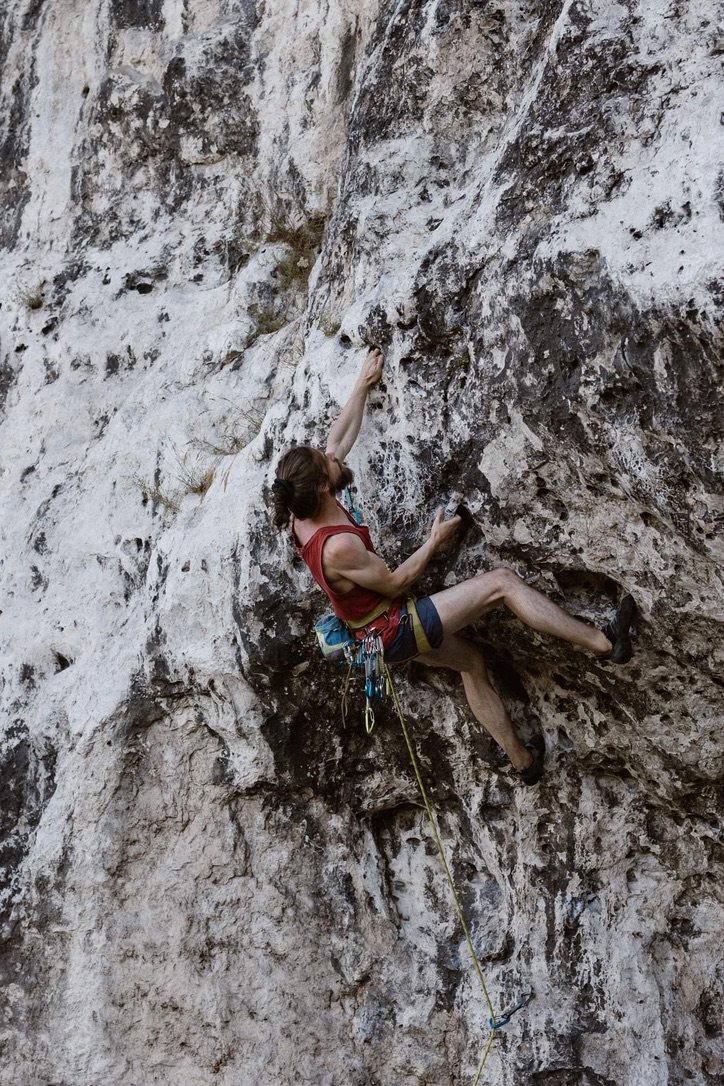
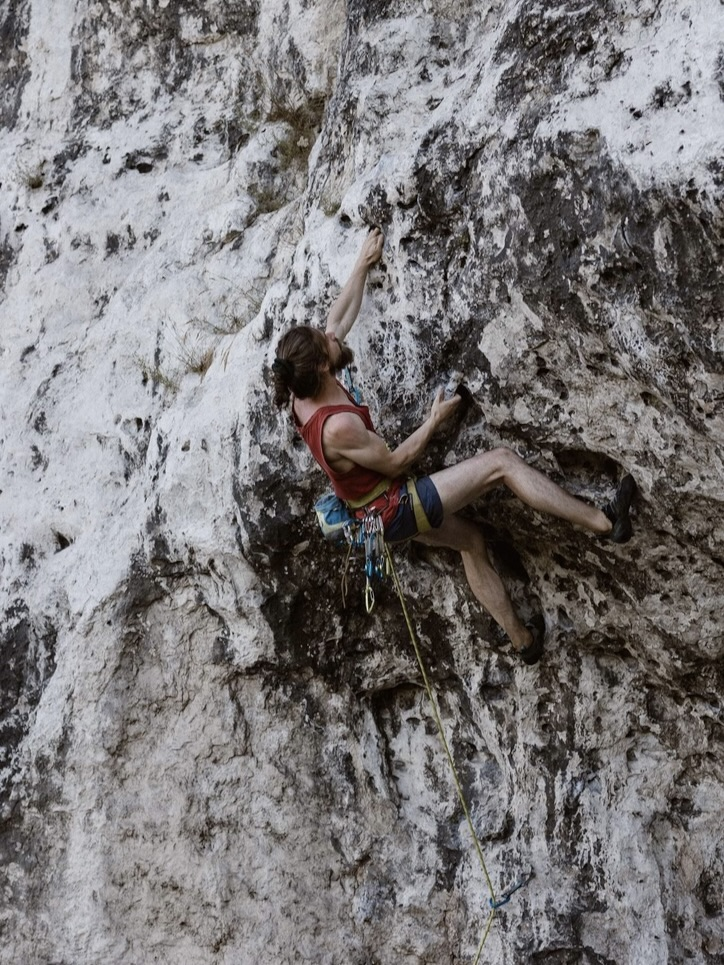
Adjusted form of picture, so that they are even; Changed my job description in first section of About

diff --git a/app/templates/index.html b/app/templates/index.html
@@ -7,11 +7,14 @@
 
       <p>
       I'm a customer supporter in fintech company. Currently working as Senior Engineering Support Advisor at Finastra.
-      My main role is investigation of technical cases, communicating and providing support for clients, I also lead a small team which provides and maintains environments in CS department.
+      </br>
+      Although my official role is investigation of technical cases, communicating and providing support for clients, I also lead a team which provides and maintains environments in CS department and builds systems to make it better, to bring synergy between it and the people. 
+      </br>
+      My another proud unwritten role is that of advocacy for CS department in all sorts of discussions related to infrastructure, technical processes and sometimes changes in product trajectories.
       </br>
       Currently my learning is focused on becoming better at organizing my work and improving my knowledge and skills related to development processeses and new technologies.
       </br>
-      I have a priviledge to work and learn from the kindest and wisest human beings I could possibly imagine.
+      I am grateful to work with kind and wise human beings, to talk about life and to learn from them.
       </p>
       <h3>Things I find fascinating to contemplate upon</h3>
       <p>
@@ -29,7 +32,7 @@
       <p>
       - (2012-2016) <b>BSc of Radiocommunication</b> at Faculty of Electronics, Telecommunications and Informatics at Gdansk University of Technology
       </br>
-      - (2016-2018) <b>MSc of Computer Networks</b> at the same faculty, my thesis was "Simulation of a wireless link with space-time coding"
+      - (2016-2018) <b>MSc of Computer Networks</b> at the same faculty, my thesis title was "Simulation of a wireless link with space-time coding"
       </p>
       <h3>Outside of my professional activities, I enjoy:</h3>
       <p>
@@ -40,6 +43,7 @@
       - spending time with my dog - Kleo
       </br>
       - rock climbing
+      </br>
       </br>
       <td>
         <tr>
@@ -89,6 +93,8 @@
       - Braiding Sweetgrass (Robin Wall Kimmerer)
       </br>
       - Secret of the Golder Flower (Chineese book, comentary by Wilhelm and Jung)
+      </br>
+      - The Secret Teachings of all Ages (Manly P. Hall)
       </br>
       - The Kybalion: Hermetic Philosophy (Three Initiates)
       </p>

diff --git a/app/templates/includes/nav.html b/app/templates/includes/nav.html
@@ -2,8 +2,8 @@
 
                 <nav-li class="nav-item"><button class="btn-nav"><a class="a-nav-item nav-link" href="{{ url_for('index') }}">About</a></button></nav-li>
 		<!-- <li class="nav-item"><button class="btn-nav"><a class="a-nav-item" href="{{ url_for('about') }}" class="nav-link active">About</a></button></li> -->
-                <nav-li class="nav-item"><button class="btn-nav"><a class="a-nav-item nav-link" href="{{ url_for('blog') }}">Blog and stuff</a></button></nav-li>
                 <nav-li class="nav-item"><button class="btn-nav"><a class="a-nav-item nav-link" href="{{ url_for('projects') }}">Projects</a></button></nav-li>
+                <nav-li class="nav-item"><button class="btn-nav"><a class="a-nav-item nav-link" href="{{ url_for('blog') }}">Blog</a></button></nav-li>
 
 
             </ul>
